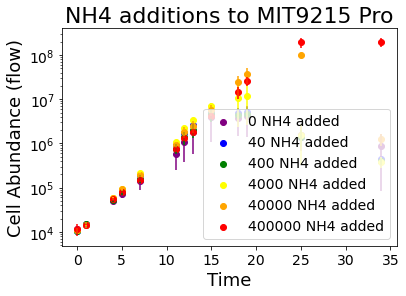
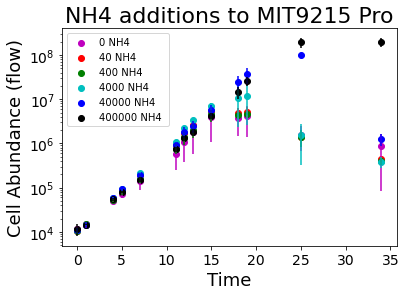
N quota

diff --git a/src/All_modeled.py b/src/All_modeled.py
@@ -102,7 +102,11 @@ P = 1e4
 
 #dPdt = k2 * P * S /( (k2/k1) + S)    - delta*P     # k2 = Vmax  K1 = affinity for nutirent (alpha) 
 #dSdt =  -P*( k2*S)/((k2/k1)+S) + (nutrinet concentration)*Cell quota
-Qn = (9.4e-15*14.0*1e+6)  #Nitrogen Quota for Pro from Bertillison? 
+
+Qn = (9.4e-15*(1/14.0)*1e+9)  #Nitrogen Quota for Pro 
+#9.4*10^-15 g N per cell   #Nitrogen fg quota of Pro cells from Bertillison et al 2003
+#14 g per Mol N     #N g to M converstion from periodic table
+#10^9 ng per g      #conversion from grams to n grams
 
 #nutrient replete or deplete delta dependant on if S ~ 0.0
 '''
@@ -112,17 +116,18 @@ Qn = (9.4e-15*14.0*1e+6)  #Nitrogen Quota for Pro from Bertillison?
 #   Integration  
 
 ##################################
-Qn = (9.4e-15*14.0*1e+6)  #Nitrogen Quota for Pro from Bertillison? 
+Qn = (9.4e-15*((14.0))*1e+9)  #Nitrogen Quota for Pro from Bertillison? #going from Ngrams per cell to N mol per cell and from fgram to ngram
+
 
 #0 NH4 added
 
 P = 1e4
-S = (0.0 + 4.1e6)    #    treatment to add in this case is 0
-k1= 1.3e-6
+S = (0.0 + 1.64e3)    #    treatment to add in this case is 0
+k1= 4.2e-3
 
-k2 = 0.45       # seems to control steepness of slope
+k2 = 0.6       # seems to control steepness of slope
 
-nrdelta = 0.02      #nutrient replete delta
+nrdelta = 0.00      #nutrient replete delta
 nddelta = 0.12       #nutrient deplete delta
 
 
@@ -138,9 +143,9 @@ for t in times:
         else:
             delta = nddelta
         dPdt = k2 * P * S /( (k2/k1) + S) - delta*P
-        dSdt = -P*(( k2*S)/((k2/k1)+S)) #*Qn
+        dSdt = -P*(( k2*S)/((k2/k1)+S))*Qn
         if S+dSdt*step <0:                    #making sure S isnt taken negative and therefore causing issues when we log transform the data
-                S = 4e-4
+                S = 4e-47
         else:
                 S = S + dSdt*step
         P = P + dPdt*step
@@ -171,7 +176,7 @@ for t in times:
         else:
             delta = nddelta
         dPdt = k2 * P * S /( (k2/k1) + S) - delta*P
-        dSdt = -P*(( k2*S)/((k2/k1)+S))
+        dSdt = -P*(( k2*S)/((k2/k1)+S))*Qn
         if S+dSdt*step <0:                    #making sure S isnt taken negative and therefore causing issues when we log transform the data
                 S = 4e-4
         else:
@@ -206,7 +211,7 @@ for t in times:
         else:
             delta = nddelta
         dPdt = k2 * P * S /( (k2/k1) + S) - delta*P
-        dSdt = -P*(( k2*S)/((k2/k1)+S))
+        dSdt = -P*(( k2*S)/((k2/k1)+S))*Qn
         if S+dSdt*step <0:                    #making sure S isnt taken negative and therefore causing issues when we log transform the data
                 S = 4e-4
         else:
@@ -240,7 +245,7 @@ for t in times:
         else:
             delta = nddelta
         dPdt = k2 * P * S /( (k2/k1) + S) - delta*P
-        dSdt = -P*(( k2*S)/((k2/k1)+S))
+        dSdt = -P*(( k2*S)/((k2/k1)+S))*Qn
         if S+dSdt*step <0:                    #making sure S isnt taken negative and therefore causing issues when we log transform the data
                 S = 4e-4
         else:
@@ -277,7 +282,7 @@ for t in times:
         else:
             delta = nddelta
         dPdt = k2 * P * S /( (k2/k1) + S) - delta*P
-        dSdt = -P*(( k2*S)/((k2/k1)+S))
+        dSdt = -P*(( k2*S)/((k2/k1)+S))*Qn
         if S+dSdt*step <0:                    #making sure S isnt taken negative and therefore causing issues when we log transform the data
                 S = 4e-4
         else:
@@ -310,7 +315,7 @@ for t in times:
         else:
             delta = nddelta
         dPdt = k2 * P * S /( (k2/k1) + S) - delta*P
-        dSdt =-P*(( k2*S)/((k2/k1)+S))
+        dSdt =-P*(( k2*S)/((k2/k1)+S))*Qn
         if S+dSdt*step <0:                    #making sure S isnt taken negative and therefore causing issues when we log transform the data
                 S = 4e-4
         else:
@@ -333,27 +338,27 @@ fig1.suptitle('NH4 trials modeled', fontweight='bold', fontsize=22)
 
 #cell abundance subplot
 #model
-#ax1.plot(times,PsEuler0,color = 'm' , label  = 'zero NH4 added')
+ax1.plot(times,PsEuler0,color = 'm' , label  = 'zero NH4 added')
 #ax1.plot(times,PsEuler40,color = 'r' , label = ' + 40 NH4 treatment')
-ax1.plot(times,PsEuler400,color = 'green' , label = ' + 400 NH4 treatment')
-ax1.plot(times,PsEuler4000, color = 'c', label = ' + 4000 NH4 treatment')
-ax1.plot(times,PsEuler40000, color = 'b' , label = ' + 40000 NH4 treatment')
+#ax1.plot(times,PsEuler400,color = 'green' , label = ' + 400 NH4 treatment')
+#ax1.plot(times,PsEuler4000, color = 'c', label = ' + 4000 NH4 treatment')
+#ax1.plot(times,PsEuler40000, color = 'b' , label = ' + 40000 NH4 treatment')
 #ax1.plot(times,PsEuler400000 , color = 'k' , label = ' + 400000 NH4 treatment')
 
 #data
-#ax1.plot(df_0['times'], avg_0, linestyle = 'None',  marker='o', color = 'm' )  #, label  = 'zero NH4 added')
+ax1.plot(df_0['times'], avg_0, linestyle = 'None',  marker='o', color = 'm' )  #, label  = 'zero NH4 added')
 #ax1.plot(df_40['times'], avg_40, linestyle = 'None',  marker='o', color = 'r' )  #, label = ' + 40 NH4 treatment')
-ax1.plot(df_400['times'], avg_400, linestyle = 'None',  marker='o', color = 'green' )  #, label = ' + 400 NH4 treatment')
-ax1.plot(df_4000['times'], avg_4000, linestyle = 'None',  marker='o', color = 'c' )      #, label = ' + 4000 NH4 added treatment')
-ax1.plot(df_40000['times'], avg_40000, linestyle = 'None',  marker='o', color = 'b' )   #label = ' + 40000 NH4 treatment')
+#ax1.plot(df_400['times'], avg_400, linestyle = 'None',  marker='o', color = 'green' )  #, label = ' + 400 NH4 treatment')
+#ax1.plot(df_4000['times'], avg_4000, linestyle = 'None',  marker='o', color = 'c' )      #, label = ' + 4000 NH4 added treatment')
+#ax1.plot(df_40000['times'], avg_40000, linestyle = 'None',  marker='o', color = 'b' )   #label = ' + 40000 NH4 treatment')
 #ax1.plot(df_400000['times'], avg_400000, linestyle = 'None',  marker='o', color = 'k' )  #, label = ' + 400000 NH4 treatment')
 
 #errorbars
-#ax1.errorbar(df_0['times'], avg_0, yerr=yerr_0,fmt='none', color = 'm')
+ax1.errorbar(df_0['times'], avg_0, yerr=yerr_0,fmt='none', color = 'm')
 #ax1.errorbar(df_40['times'], avg_40, yerr=yerr_40,fmt='none', color = 'r')
-ax1.errorbar(df_400['times'], avg_400,yerr=yerr_400,fmt='none', color = 'green' )
-ax1.errorbar(df_4000['times'], avg_4000, yerr=yerr_4000,fmt='none', color = 'c' )
-ax1.errorbar(df_40000['times'], avg_40000, yerr=yerr_40000,fmt='none', color = 'b')
+#ax1.errorbar(df_400['times'], avg_400,yerr=yerr_400,fmt='none', color = 'green' )
+#ax1.errorbar(df_4000['times'], avg_4000, yerr=yerr_4000,fmt='none', color = 'c' )
+#ax1.errorbar(df_40000['times'], avg_40000, yerr=yerr_40000,fmt='none', color = 'b')
 #ax1.errorbar(df_400000['times'], avg_400000, yerr=yerr_400000,fmt='none', color = 'k' )
 
 
@@ -364,11 +369,11 @@ ax1.legend(loc='lower right',prop={'size': 10}, fontsize=12)
 
    
 #nutrient subplot
-#ax2.plot(times,SsEuler0,color = 'm' , label  = 'zero NH4 added')
+ax2.plot(times,SsEuler0,color = 'm' , label  = 'zero NH4 added')
 #ax2.plot(times,SsEuler40,color = 'r' , label = ' + 40 NH4 treatment')
-ax2.plot(times,SsEuler400,color = 'green' , label = ' + 400 NH4 treatment')
-ax2.plot(times,SsEuler4000, color = 'c' , label = ' + 4000 NH4 treatment')
-ax2.plot(times,SsEuler40000, color = 'b' , label = ' + 40000 NH4 treatment')
+#ax2.plot(times,SsEuler400,color = 'green' , label = ' + 400 NH4 treatment')
+#ax2.plot(times,SsEuler4000, color = 'c' , label = ' + 4000 NH4 treatment')
+#ax2.plot(times,SsEuler40000, color = 'b' , label = ' + 40000 NH4 treatment')
 #ax2.plot(times,SsEuler400000 , color = 'k' , label = ' + 400000 NH4 treatment')
 
 
@@ -386,8 +391,8 @@ ax2.yaxis.tick_right()
 
 #plt.legend(prop={"size":14})
 
-plt.xticks(fontsize = 16)
-plt.yticks(fontsize = 16)
+plt.xticks(fontsize = 20)
+plt.yticks(fontsize = 20)
 plt.yscale("log")
 #plt.tick_params(axis='both', which = 'both', length = 2,  labelsize=16,)
 

diff --git a/src/All_graphing_std.py b/src/All_graphing_std.py
@@ -108,27 +108,27 @@ plt.scatter(df_all['times'],df_all['rep6'], label = 'rep6')
 
 fig , ax = plt.subplots(sharex=True, sharey=True) 
 #plt.scatter(x = df_0['times'], y = [df_0['rep1'], label = '0 NH4 added')
-plt.scatter(x = df_0['times'], y = [avg_0], color = 'purple', label = '0 NH4 added')
-plt.scatter(x = df_40['times'], y = [avg_40], color = 'blue',  label = '40 NH4 added')
-plt.scatter(x = df_400['times'], y = [avg_400],  color = 'green' , label = '400 NH4 added')
-plt.scatter(x = df_4000['times'], y = [avg_4000], color = 'yellow' ,  label = '4000 NH4 added')
-plt.scatter(x = df_40000['times'], y = [avg_40000], color = 'orange', label = '40000 NH4 added')
-plt.scatter(x = df_400000['times'], y = [avg_400000],color = 'red',  label = '400000 NH4 added')
+plt.scatter(x = df_0['times'], y = [avg_0], color = 'm', label = '0 NH4 ')
+plt.scatter(x = df_40['times'], y = [avg_40], color = 'red',  label = '40 NH4 ')
+plt.scatter(x = df_400['times'], y = [avg_400],  color = 'green' , label = '400 NH4 ')
+plt.scatter(x = df_4000['times'], y = [avg_4000], color = 'c' ,  label = '4000 NH4 ')
+plt.scatter(x = df_40000['times'], y = [avg_40000], color = 'b', label = '40000 NH4 ')
+plt.scatter(x = df_400000['times'], y = [avg_400000],color = 'k',  label = '400000 NH4 ')
 
-plt.errorbar(df_0['times'], avg_0, yerr=yerr_0,fmt='none', color = 'purple')
-plt.errorbar(df_40['times'], avg_40, yerr=yerr_40,fmt='none', color = 'blue')
+plt.errorbar(df_0['times'], avg_0, yerr=yerr_0,fmt='none', color = 'm')
+plt.errorbar(df_40['times'], avg_40, yerr=yerr_40,fmt='none', color = 'red')
 plt.errorbar(df_400['times'], avg_400,yerr=yerr_400,fmt='none', color = 'green' )
-plt.errorbar(df_4000['times'], avg_4000, yerr=yerr_4000,fmt='none', color = 'yellow' )
-plt.errorbar(df_40000['times'], avg_40000, yerr=yerr_40000,fmt='none', color = 'orange')
-plt.errorbar(df_400000['times'], avg_400000, yerr=yerr_400000,fmt='none', color = 'red' )
+plt.errorbar(df_4000['times'], avg_4000, yerr=yerr_4000,fmt='none', color = 'c' )
+plt.errorbar(df_40000['times'], avg_40000, yerr=yerr_40000,fmt='none', color = 'b')
+plt.errorbar(df_400000['times'], avg_400000, yerr=yerr_400000,fmt='none', color = 'k' )
 
 
 plt.semilogy()
 
-plt.legend()
+
 plt.title('NH4 additions to MIT9215 Pro', fontsize = '22')
 plt.xlabel('Time',fontsize = '18')
-plt.legend(prop={"size":14})
+plt.legend(loc='upper left',prop={'size': 10}, fontsize=12)
 plt.ylabel('Cell Abundance (flow)',fontsize = '18')
 plt.xticks(fontsize = 14) 
 plt.yticks(fontsize = 14)
